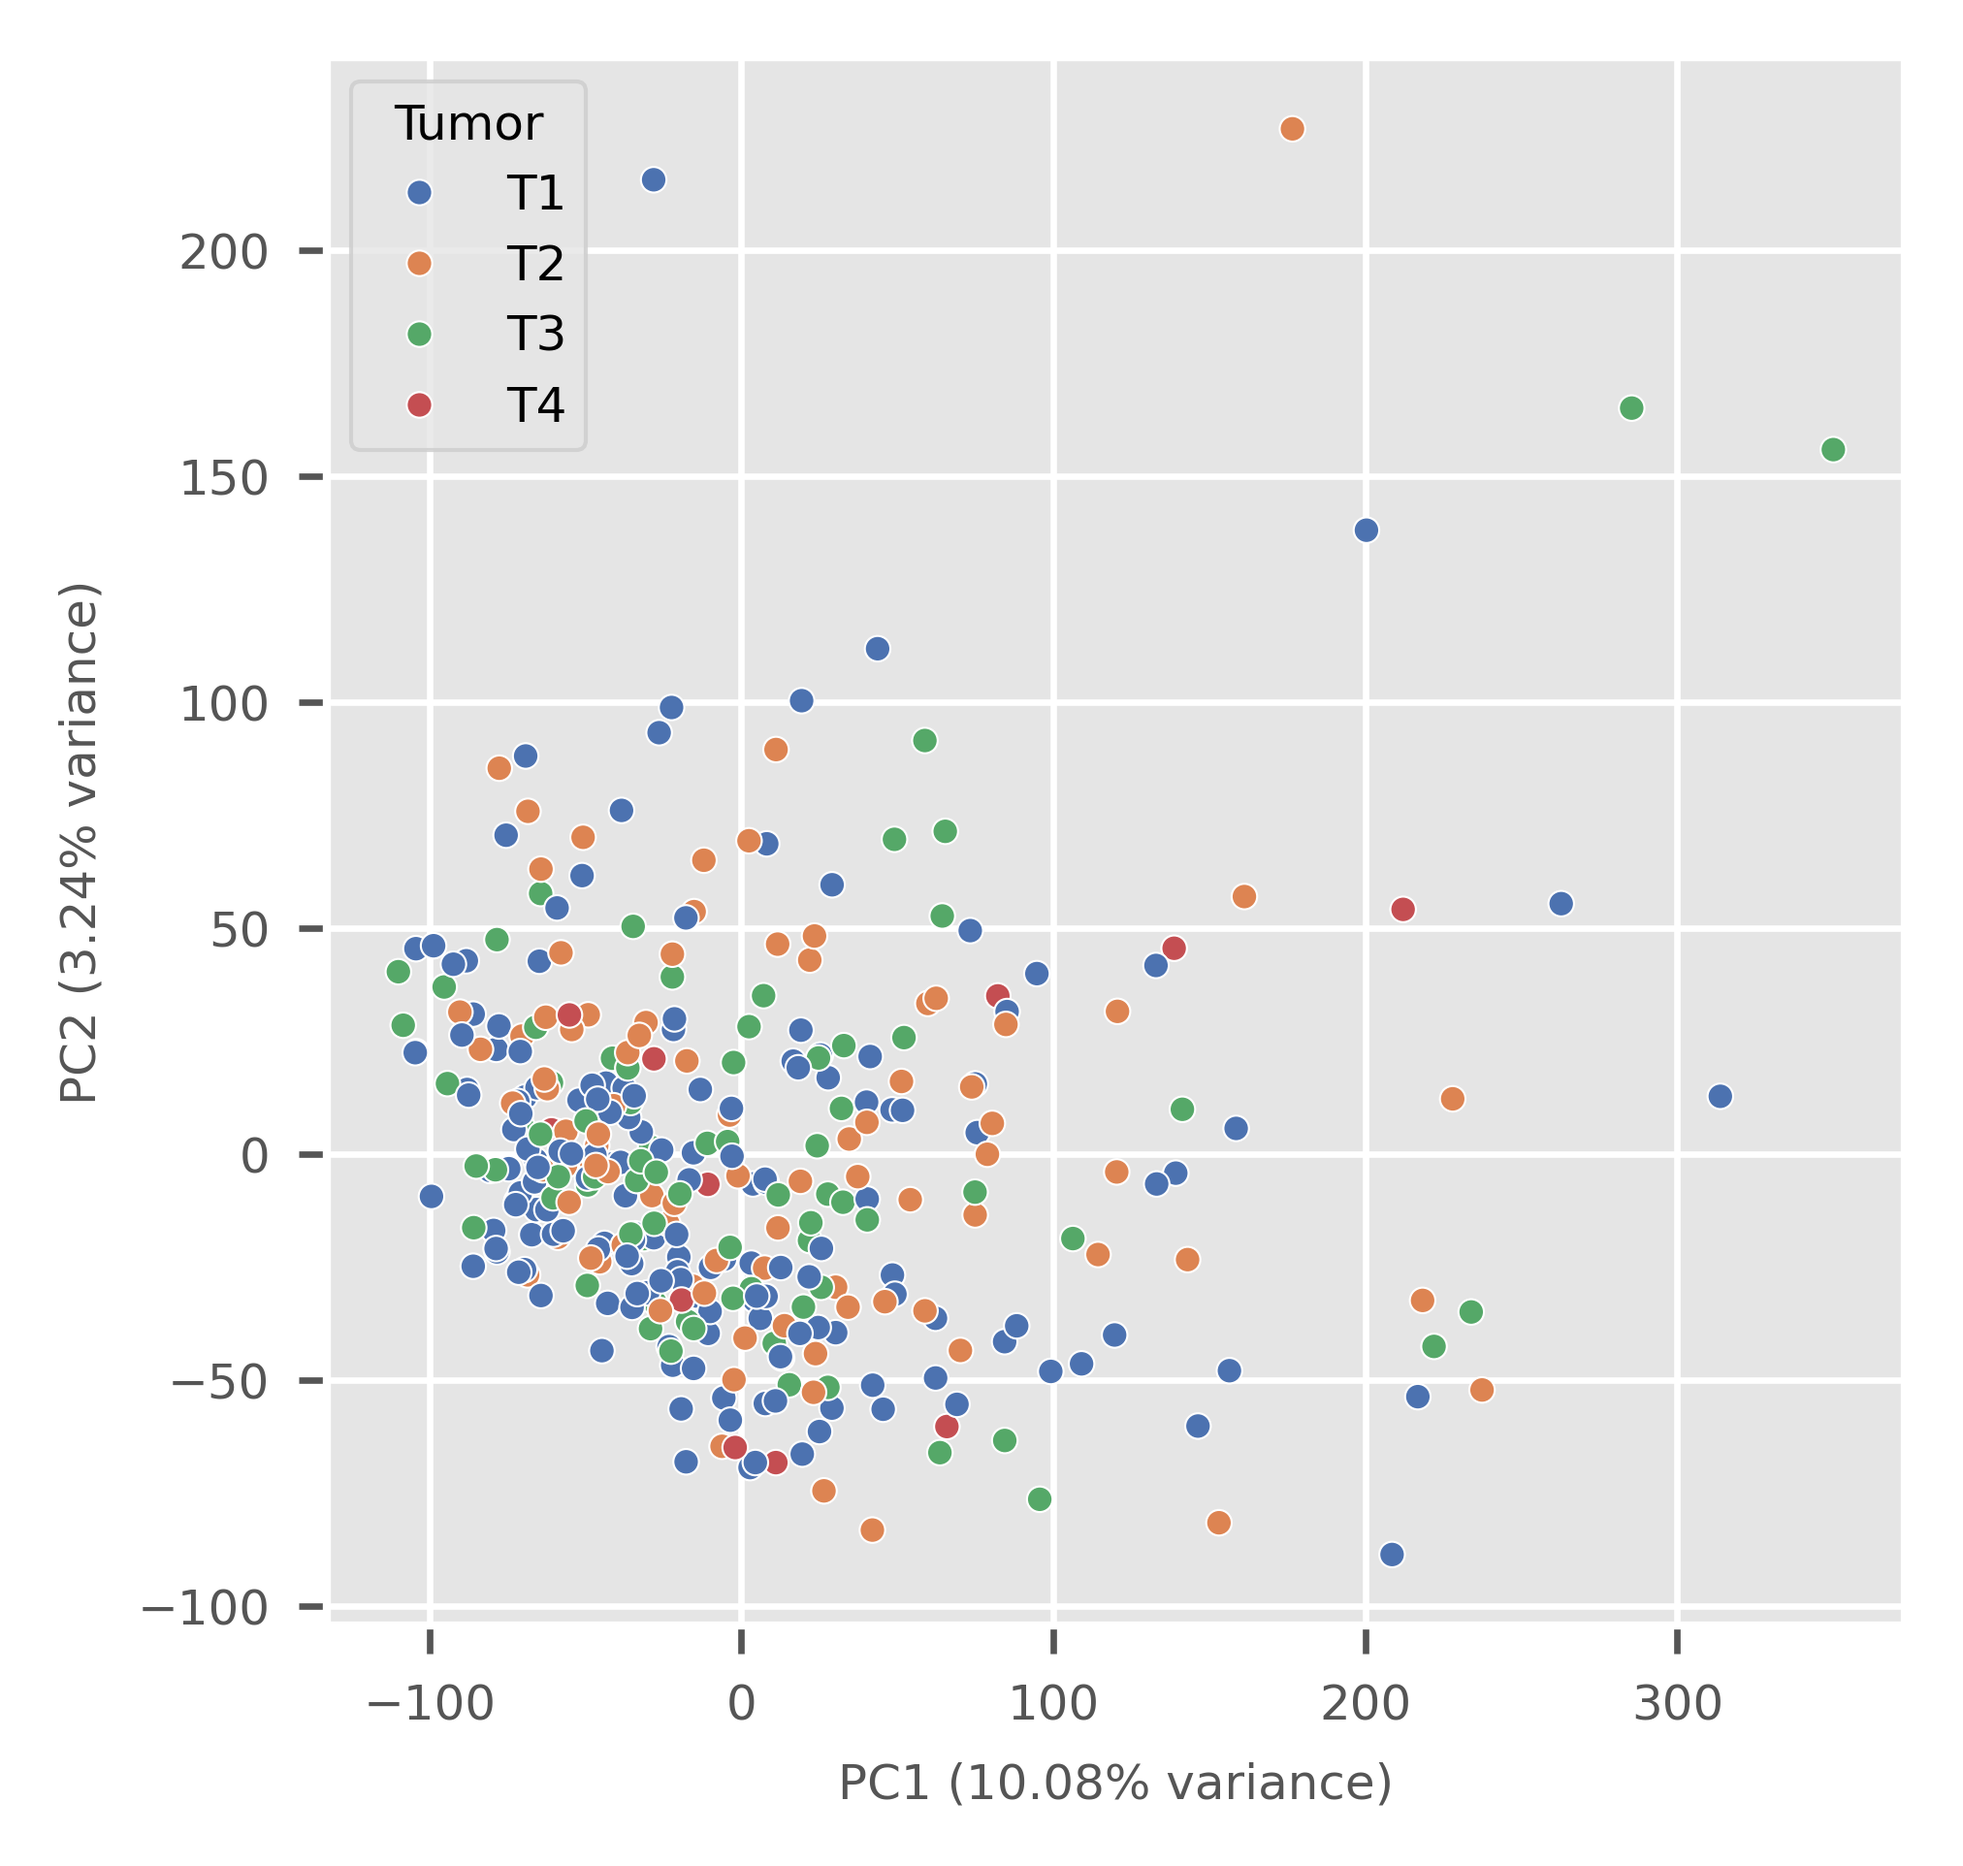
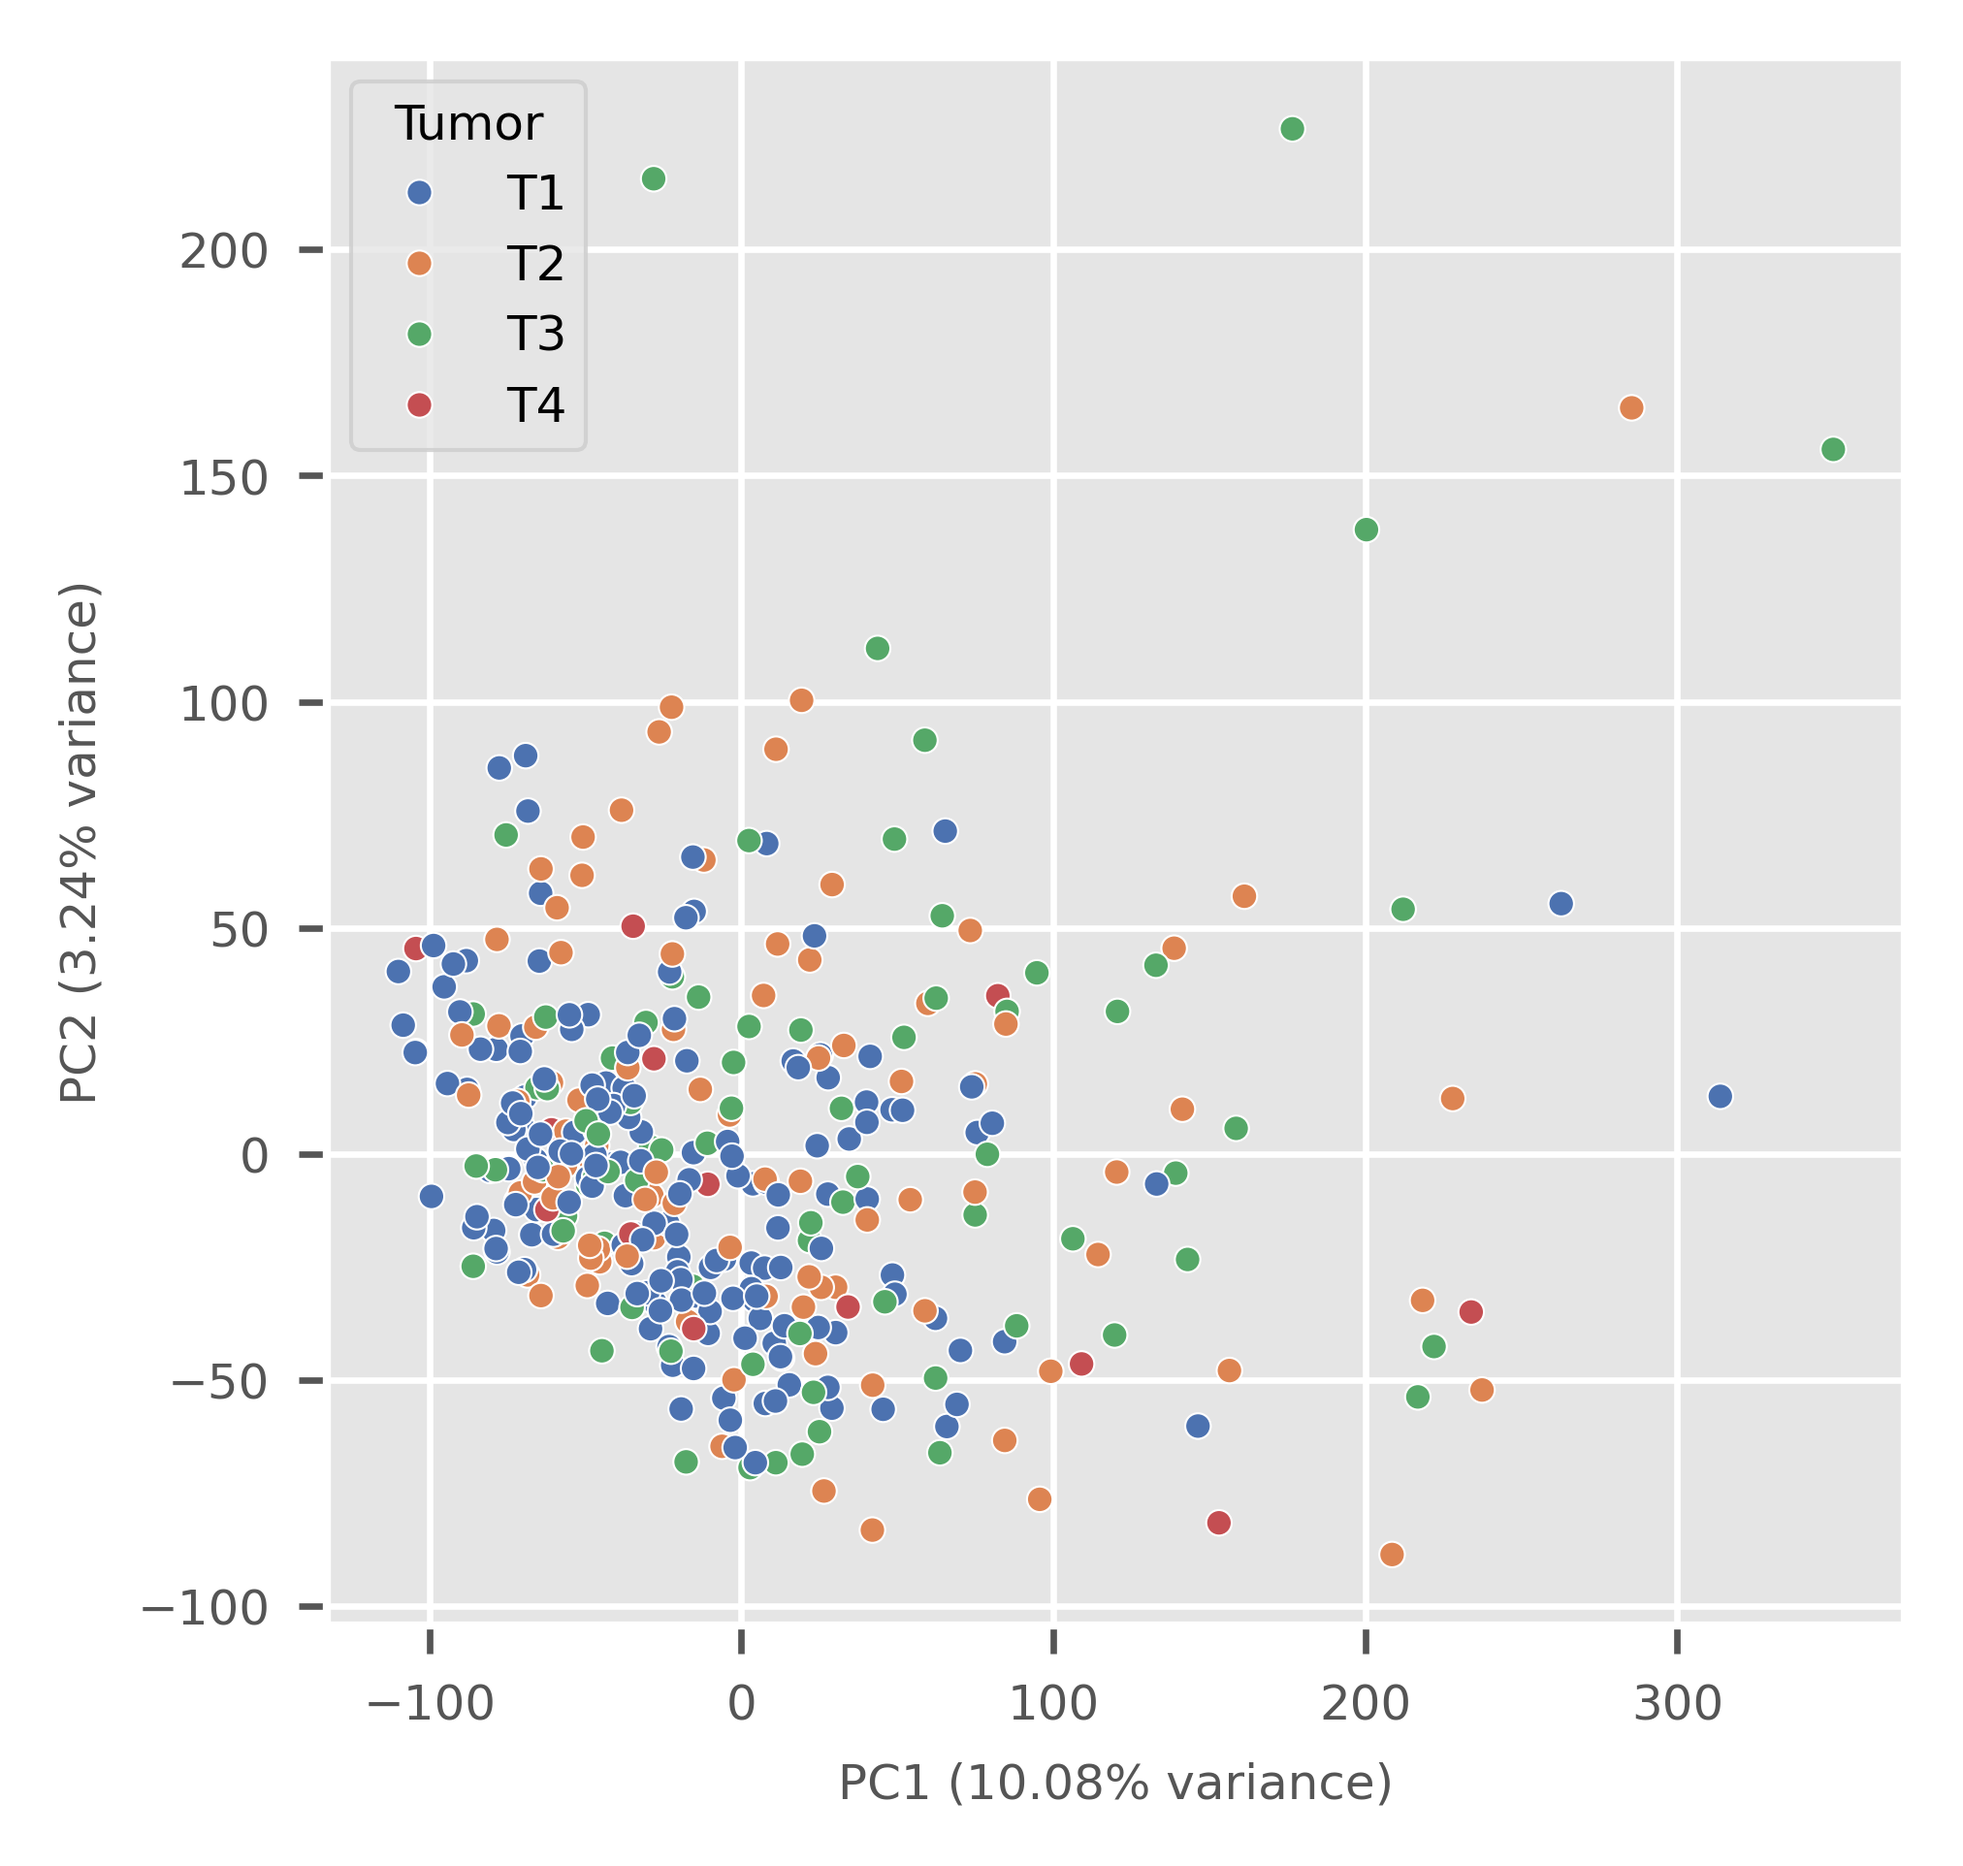
cluster fix

diff --git a/cluster.py b/cluster.py
@@ -42,10 +42,11 @@ import seaborn as sns
 
 def generate_pca_plot(metadata, gene_data, group_columns, output_dir):
     print("[PCA] ...    ", end='\r')
+    
     # Normalize
     valid_samples = ~metadata[group_columns].isna().any(axis=1)
-    gene_data = gene_data[valid_samples]
-    metadata = metadata[valid_samples]
+    gene_data = gene_data[valid_samples].reset_index(drop=True)
+    metadata = metadata[valid_samples].reset_index(drop=True)
     scaler = StandardScaler()
     scaled_features = scaler.fit_transform(gene_data)
 
